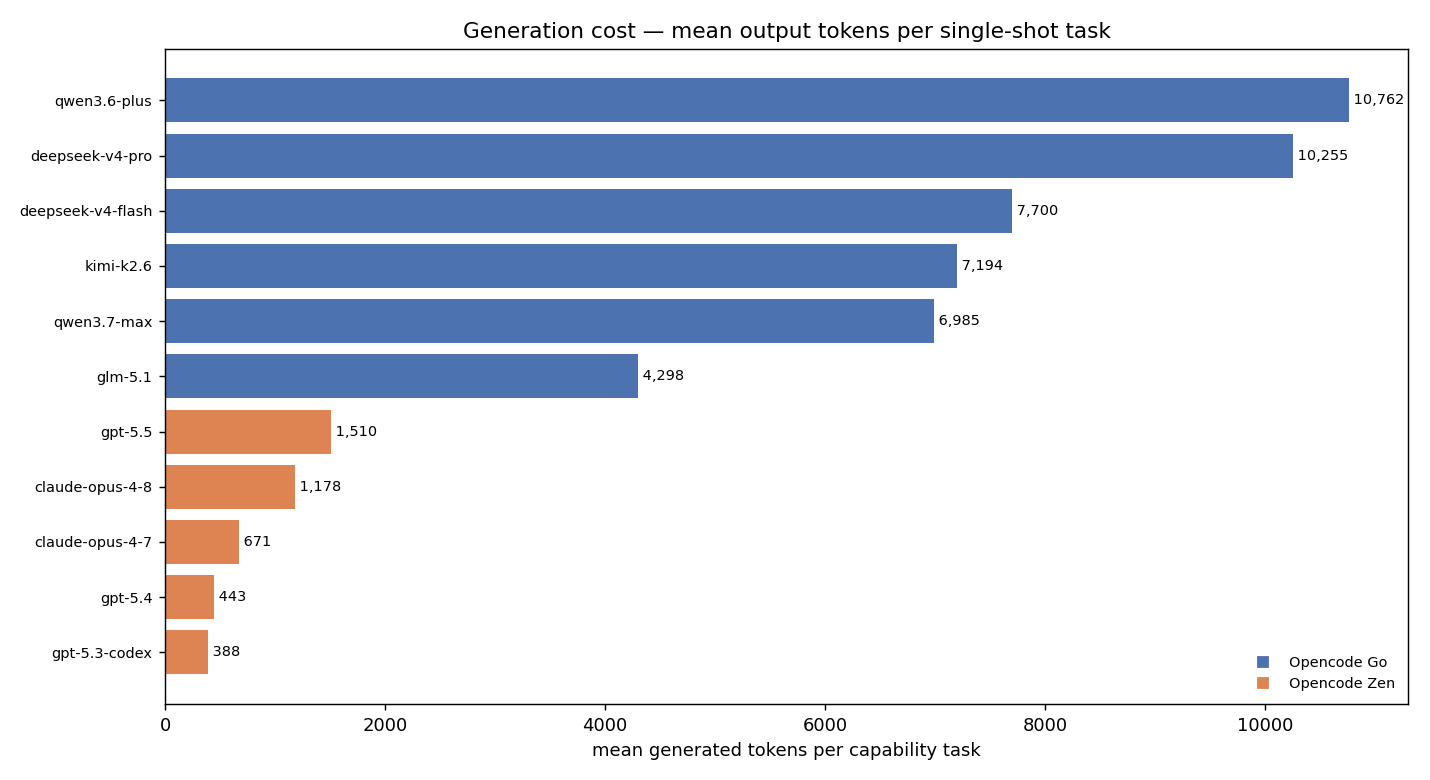
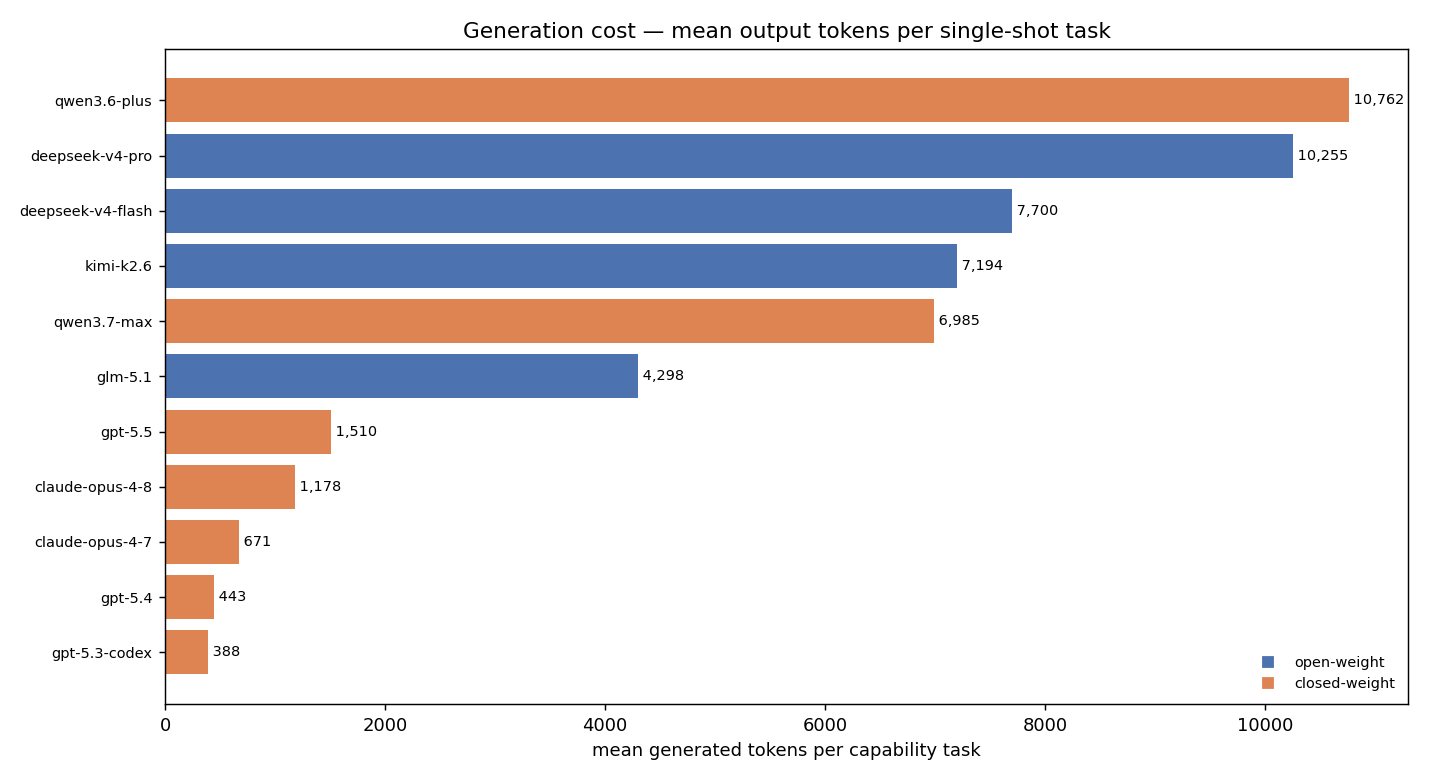
docs: debrand capability figure legends to open-weight / closed-weight
Relabel provider colouring in build_report.py (open-weight = DeepSeek/GLM/Kimi,
closed-weight = Qwen/GPT/Opus) and regenerate fig_efficiency, fig_thinking_cost,
and fig_tooluse with the debranded legend, matching the pricing figure. main.md
text is left at its hand-maintained baseline.

Changed region(s): [[0.0923, 0.0923, 0.9538, 0.1538], [0.0923, 0.3692, 0.6769, 0.4615], [0.8615, 0.8308, 0.9846, 0.8923]]

diff --git a/scripts/build_report.py b/scripts/build_report.py
@@ -42,11 +42,11 @@ EASY = TASKS[:3]
 HARD = TASKS[3:]
 C2_TASKS = {"tool_use_c2", "tool_use_c2_hard"}
 
-# Closed deployments served by Opencode Zen; everything else is Opencode Go.
-ZEN_BASES = {"gpt-5.3-codex", "gpt-5.4", "gpt-5.5",
-             "claude-opus-4-7", "claude-opus-4-8"}
+# Open-weight = publicly released weights (DeepSeek/GLM/Kimi). Qwen Max/Plus are
+# proprietary API models, so they are closed-weight alongside GPT and Opus.
+OPEN_WEIGHT = {"deepseek-v4-pro", "deepseek-v4-flash", "glm-5.1", "kimi-k2.6"}
 
-PROVIDER_COLORS = {"Opencode Go": "#4c72b0", "Opencode Zen": "#dd8452"}
+PROVIDER_COLORS = {"open-weight": "#4c72b0", "closed-weight": "#dd8452"}
 
 
 def base_name(model_id: str) -> str:
@@ -54,7 +54,7 @@ def base_name(model_id: str) -> str:
 
 
 def provider(model_id: str) -> str:
-    return "Opencode Zen" if base_name(model_id) in ZEN_BASES else "Opencode Go"
+    return "open-weight" if base_name(model_id) in OPEN_WEIGHT else "closed-weight"
 
 
 def disp(model_id: str) -> str: